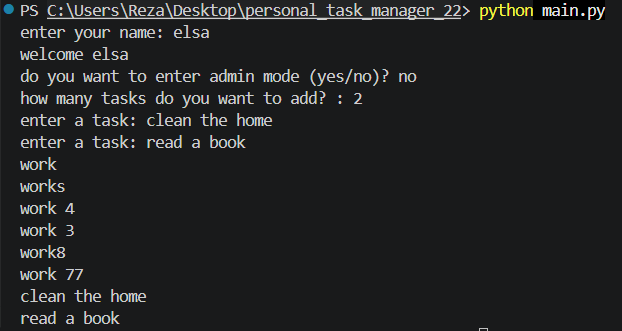
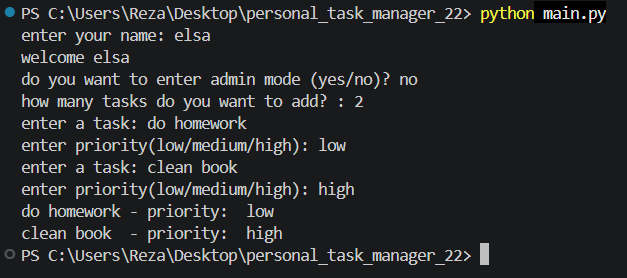
update readme for task priority

diff --git a/README.md b/README.md
@@ -3,13 +3,20 @@
 ![Static Badge](https://img.shields.io/badge/python-blue?logo=python&logoColor=white)
 
 
-A simple task manager built with python
+A simple task manager built with Python
 
 # Features
 - add multiple tasks
 - save tasks
 - load seved tasks
 - admin mode
+- set task priority
+
+## Task Priority
+each task can have one of these priority levels:
+- low
+- medium
+- high
 
 ## Requirments
 - Python
@@ -51,14 +58,14 @@ admin_pass=your_password_here
 
 replace `your_password_here` with yuor own admin password
 
-## run the program
+## Run the Program
 run the main file:
 ```bash
 python main.py
 ```
 
 ## Screenshot
-![personal_task_manager_screenshot](images\screenshot.png)
+![personal_task_manager_screenshot](images\Screenshot.png)
 
 ## Demo
 ![personal_task_manager_demot](images\Animation.gif)
